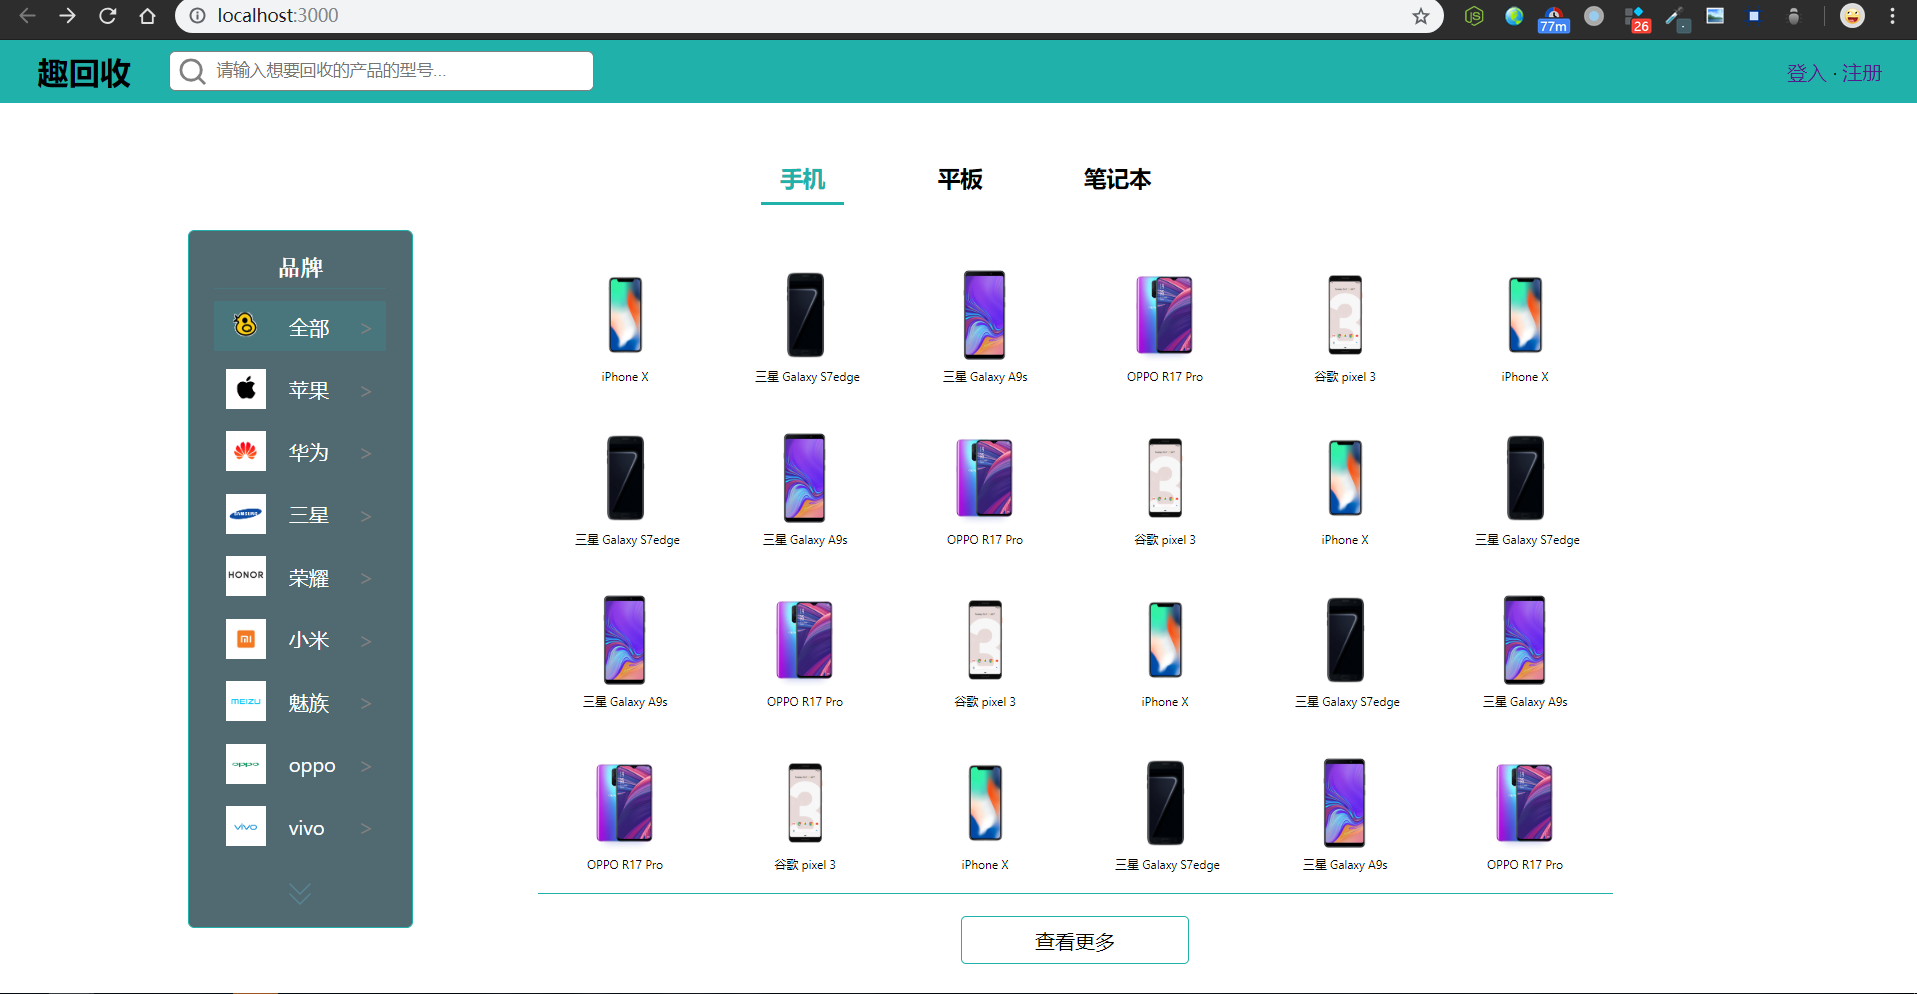
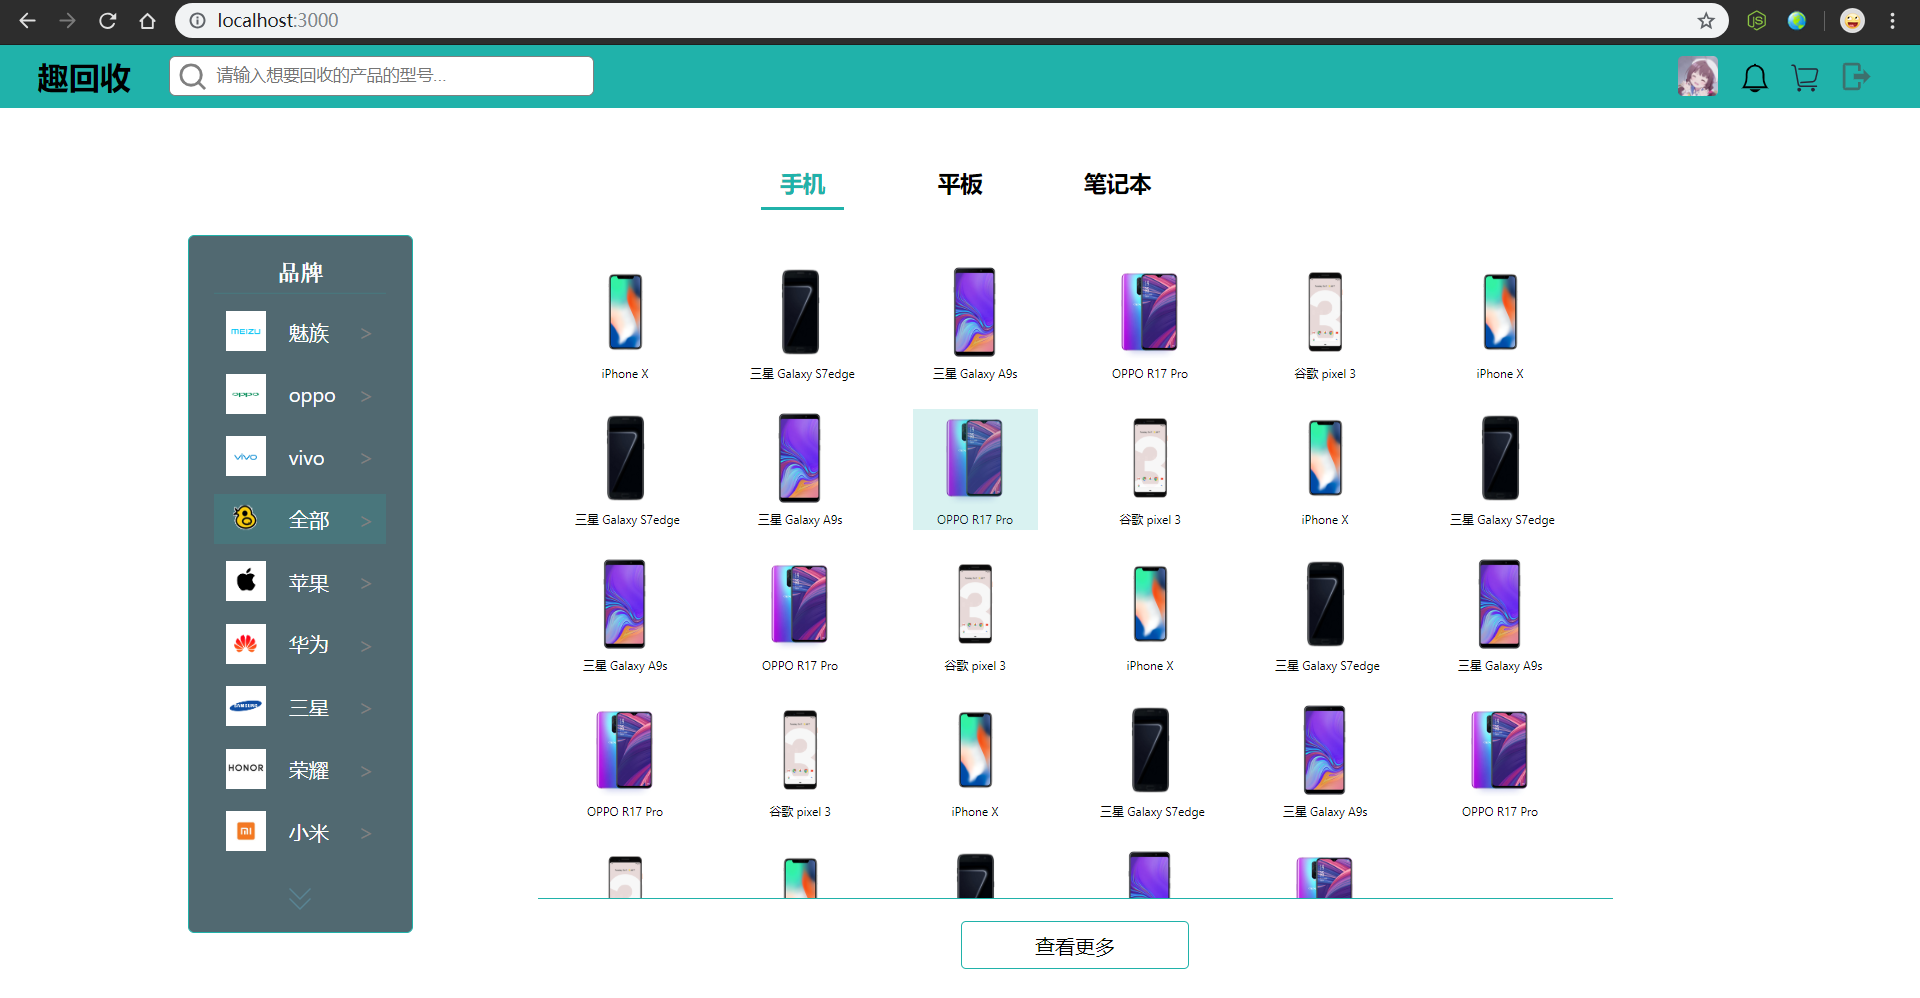
Component: Divider

diff --git a/src/assets/js/iconfont.js b/src/assets/js/iconfont.js
@@ -1,2 +1,2 @@
 /* eslint-disable */
-!function(a){var e,o='<svg><symbol id="icon-gouwuche" viewBox="0 0 1024 1024"><path d="M246.4 912a67.2 67.2 0 1 0 134.4 0 67.2 67.2 0 1 0-134.4 0z m470.4 0a67.2 67.2 0 1 0 134.4 0 67.2 67.2 0 1 0-134.4 0z m188.8-147.2h-537.6c-28.8 0-57.6-25.6-64-54.4L208 144C198.4 89.6 147.2 48 92.8 48H70.4c-12.8 0-25.6 12.8-25.6 25.6s12.8 25.6 25.6 25.6h22.4c28.8 0 57.6 25.6 64 54.4l96 566.4c9.6 54.4 60.8 96 115.2 96h537.6c12.8 0 25.6-12.8 25.6-25.6s-9.6-25.6-25.6-25.6z m-25.6-585.6H307.2c-12.8 0-25.6 12.8-25.6 25.6s12.8 25.6 25.6 25.6h572.8c25.6 0 38.4 16 32 41.6l-70.4 281.6c-6.4 32-41.6 57.6-73.6 60.8l-396.8 28.8c-12.8 0-25.6 12.8-22.4 28.8 0 12.8 12.8 25.6 28.8 22.4l396.8-28.8c54.4-3.2 105.6-48 118.4-99.2l70.4-281.6c12.8-54.4-25.6-105.6-83.2-105.6z" fill="#272636" ></path></symbol><symbol id="icon-logout" viewBox="0 0 1024 1024"><path d="M725.333333 736V597.333333h-298.666666v-170.666666h298.666666V288L949.333333 512 725.333333 736M554.666667 85.333333a85.333333 85.333333 0 0 1 85.333333 85.333334v170.666666h-85.333333V170.666667H170.666667v682.666666h384v-170.666666h85.333333v170.666666a85.333333 85.333333 0 0 1-85.333333 85.333334H170.666667a85.333333 85.333333 0 0 1-85.333334-85.333334V170.666667a85.333333 85.333333 0 0 1 85.333334-85.333334h384z" fill="" ></path></symbol><symbol id="icon-xiaoxi" viewBox="0 0 1024 1024"><path d="M377.6 947.2l-48-48h361.6l-48 48c-70.4 73.6-192 73.6-265.6 0zM832 492.8v-115.2c0-166.4-128-304-288-320v-3.2c0-19.2-12.8-32-32-32s-32 12.8-32 32v3.2c-163.2 16-288 153.6-288 320v115.2c0 131.2-44.8 262.4-128 364.8h896c-83.2-102.4-128-233.6-128-364.8z m-576 0v-115.2c0-134.4 99.2-243.2 230.4-256l28.8-3.2 22.4 3.2c131.2 12.8 230.4 121.6 230.4 256v115.2c0 105.6 25.6 208 73.6 300.8H182.4C230.4 700.8 256 598.4 256 492.8z" fill="" ></path></symbol><symbol id="icon-search" viewBox="0 0 1024 1024"><path d="M883.626667 823.04l-145.066667-144.64A337.92 337.92 0 0 0 810.666667 469.333333a341.333333 341.333333 0 1 0-341.333334 341.333334 337.92 337.92 0 0 0 209.066667-72.106667l144.64 145.066667a42.666667 42.666667 0 0 0 60.586667 0 42.666667 42.666667 0 0 0 0-60.586667zM213.333333 469.333333a256 256 0 1 1 256 256 256 256 0 0 1-256-256z"  ></path></symbol><symbol id="icon-Doublearrowdown" viewBox="0 0 1024 1024"><path d="M512 785.066667a17.015467 17.015467 0 0 1-12.066133-5.000534l-256-256a17.0496 17.0496 0 1 1 24.132266-24.132266L512 743.867733l243.933867-243.933866a17.0496 17.0496 0 1 1 24.132266 24.132266l-256 256A17.015467 17.015467 0 0 1 512 785.066667z m0-256a17.015467 17.015467 0 0 1-12.066133-5.000534l-256-256a17.0496 17.0496 0 1 1 24.132266-24.132266L512 487.867733l243.933867-243.933866a17.0496 17.0496 0 1 1 24.132266 24.132266l-256 256A17.015467 17.015467 0 0 1 512 529.066667z"  ></path></symbol></svg>',t=(e=document.getElementsByTagName("script"))[e.length-1].getAttribute("data-injectcss");if(t&&!a.__iconfont__svg__cssinject__){a.__iconfont__svg__cssinject__=!0;try{document.write("<style>.svgfont {display: inline-block;width: 1em;height: 1em;fill: currentColor;vertical-align: -0.1em;font-size:16px;}</style>")}catch(e){console&&console.log(e)}}!function(e){if(document.addEventListener)if(~["complete","loaded","interactive"].indexOf(document.readyState))setTimeout(e,0);else{var t=function(){document.removeEventListener("DOMContentLoaded",t,!1),e()};document.addEventListener("DOMContentLoaded",t,!1)}else document.attachEvent&&(o=e,n=a.document,i=!1,c=function(){i||(i=!0,o())},(l=function(){try{n.documentElement.doScroll("left")}catch(e){return void setTimeout(l,50)}c()})(),n.onreadystatechange=function(){"complete"==n.readyState&&(n.onreadystatechange=null,c())});var o,n,i,c,l}(function(){var e,t;(e=document.createElement("div")).innerHTML=o,o=null,(t=e.getElementsByTagName("svg")[0])&&(t.setAttribute("aria-hidden","true"),t.style.position="absolute",t.style.width=0,t.style.height=0,t.style.overflow="hidden",function(e,t){t.firstChild?function(e,t){t.parentNode.insertBefore(e,t)}(e,t.firstChild):t.appendChild(e)}(t,document.body))})}(window);
+!function(a){var t,o='<svg><symbol id="icon-edit" viewBox="0 0 1024 1024"><path d="M912.310222 874.534873l-801.248753 0c-8.477069 0-15.349593-6.872524-15.349593-15.349593s6.872524-15.349593 15.349593-15.349593l801.248753 0c8.477069 0 15.349593 6.872524 15.349593 15.349593S920.78729 874.534873 912.310222 874.534873z"  ></path><path d="M152.361083 860.972996c-4.093225 0-8.098445-1.639337-11.042497-4.685719-4.168949-4.315282-5.440919-10.663874-3.257184-16.253172l73.833589-188.899254c0.777713-1.988284 1.961678-3.793396 3.476171-5.299703l495.742734-492.675886c6.002714-5.967922 15.706727-5.947456 21.686928 0.047072l114.705462 114.988918c5.951549 5.966898 5.981225 15.614629 0.064468 21.61632L355.786169 788.710182c-1.639337 1.662873-3.63683 2.929726-5.840008 3.704368L157.449985 860.102163C155.786089 860.687494 154.064888 860.972996 152.361083 860.972996zM239.309364 665.327084l-60.471256 154.712641 157.576875-55.407937L815.023478 279.099602l-93.136214-93.365434L239.309364 665.327084z"  ></path><path d="M344.855212 793.284361c-3.983731 0-7.962346-1.540076-10.969842-4.612041L215.223806 667.460678c-5.930059-6.057973-5.826705-15.776312 0.231267-21.706371 6.056949-5.932106 15.775288-5.827729 21.706371 0.231267l118.661563 121.211643c5.930059 6.057973 5.826705 15.776312-0.231267 21.706371C352.605733 791.827173 348.728426 793.284361 344.855212 793.284361z"  ></path></symbol><symbol id="icon-gouwuche" viewBox="0 0 1024 1024"><path d="M246.4 912a67.2 67.2 0 1 0 134.4 0 67.2 67.2 0 1 0-134.4 0z m470.4 0a67.2 67.2 0 1 0 134.4 0 67.2 67.2 0 1 0-134.4 0z m188.8-147.2h-537.6c-28.8 0-57.6-25.6-64-54.4L208 144C198.4 89.6 147.2 48 92.8 48H70.4c-12.8 0-25.6 12.8-25.6 25.6s12.8 25.6 25.6 25.6h22.4c28.8 0 57.6 25.6 64 54.4l96 566.4c9.6 54.4 60.8 96 115.2 96h537.6c12.8 0 25.6-12.8 25.6-25.6s-9.6-25.6-25.6-25.6z m-25.6-585.6H307.2c-12.8 0-25.6 12.8-25.6 25.6s12.8 25.6 25.6 25.6h572.8c25.6 0 38.4 16 32 41.6l-70.4 281.6c-6.4 32-41.6 57.6-73.6 60.8l-396.8 28.8c-12.8 0-25.6 12.8-22.4 28.8 0 12.8 12.8 25.6 28.8 22.4l396.8-28.8c54.4-3.2 105.6-48 118.4-99.2l70.4-281.6c12.8-54.4-25.6-105.6-83.2-105.6z" fill="#272636" ></path></symbol><symbol id="icon-logout" viewBox="0 0 1024 1024"><path d="M725.333333 736V597.333333h-298.666666v-170.666666h298.666666V288L949.333333 512 725.333333 736M554.666667 85.333333a85.333333 85.333333 0 0 1 85.333333 85.333334v170.666666h-85.333333V170.666667H170.666667v682.666666h384v-170.666666h85.333333v170.666666a85.333333 85.333333 0 0 1-85.333333 85.333334H170.666667a85.333333 85.333333 0 0 1-85.333334-85.333334V170.666667a85.333333 85.333333 0 0 1 85.333334-85.333334h384z" fill="" ></path></symbol><symbol id="icon-xiaoxi" viewBox="0 0 1024 1024"><path d="M377.6 947.2l-48-48h361.6l-48 48c-70.4 73.6-192 73.6-265.6 0zM832 492.8v-115.2c0-166.4-128-304-288-320v-3.2c0-19.2-12.8-32-32-32s-32 12.8-32 32v3.2c-163.2 16-288 153.6-288 320v115.2c0 131.2-44.8 262.4-128 364.8h896c-83.2-102.4-128-233.6-128-364.8z m-576 0v-115.2c0-134.4 99.2-243.2 230.4-256l28.8-3.2 22.4 3.2c131.2 12.8 230.4 121.6 230.4 256v115.2c0 105.6 25.6 208 73.6 300.8H182.4C230.4 700.8 256 598.4 256 492.8z" fill="" ></path></symbol><symbol id="icon-search" viewBox="0 0 1024 1024"><path d="M883.626667 823.04l-145.066667-144.64A337.92 337.92 0 0 0 810.666667 469.333333a341.333333 341.333333 0 1 0-341.333334 341.333334 337.92 337.92 0 0 0 209.066667-72.106667l144.64 145.066667a42.666667 42.666667 0 0 0 60.586667 0 42.666667 42.666667 0 0 0 0-60.586667zM213.333333 469.333333a256 256 0 1 1 256 256 256 256 0 0 1-256-256z"  ></path></symbol><symbol id="icon-Doublearrowdown" viewBox="0 0 1024 1024"><path d="M512 785.066667a17.015467 17.015467 0 0 1-12.066133-5.000534l-256-256a17.0496 17.0496 0 1 1 24.132266-24.132266L512 743.867733l243.933867-243.933866a17.0496 17.0496 0 1 1 24.132266 24.132266l-256 256A17.015467 17.015467 0 0 1 512 785.066667z m0-256a17.015467 17.015467 0 0 1-12.066133-5.000534l-256-256a17.0496 17.0496 0 1 1 24.132266-24.132266L512 487.867733l243.933867-243.933866a17.0496 17.0496 0 1 1 24.132266 24.132266l-256 256A17.015467 17.015467 0 0 1 512 529.066667z"  ></path></symbol></svg>',e=(t=document.getElementsByTagName("script"))[t.length-1].getAttribute("data-injectcss");if(e&&!a.__iconfont__svg__cssinject__){a.__iconfont__svg__cssinject__=!0;try{document.write("<style>.svgfont {display: inline-block;width: 1em;height: 1em;fill: currentColor;vertical-align: -0.1em;font-size:16px;}</style>")}catch(t){console&&console.log(t)}}!function(t){if(document.addEventListener)if(~["complete","loaded","interactive"].indexOf(document.readyState))setTimeout(t,0);else{var e=function(){document.removeEventListener("DOMContentLoaded",e,!1),t()};document.addEventListener("DOMContentLoaded",e,!1)}else document.attachEvent&&(o=t,n=a.document,c=!1,l=function(){c||(c=!0,o())},(i=function(){try{n.documentElement.doScroll("left")}catch(t){return void setTimeout(i,50)}l()})(),n.onreadystatechange=function(){"complete"==n.readyState&&(n.onreadystatechange=null,l())});var o,n,c,l,i}(function(){var t,e;(t=document.createElement("div")).innerHTML=o,o=null,(e=t.getElementsByTagName("svg")[0])&&(e.setAttribute("aria-hidden","true"),e.style.position="absolute",e.style.width=0,e.style.height=0,e.style.overflow="hidden",function(t,e){e.firstChild?function(t,e){e.parentNode.insertBefore(t,e)}(t,e.firstChild):e.appendChild(t)}(e,document.body))})}(window);

diff --git a/src/components/divider/Divider.jsx b/src/components/divider/Divider.jsx
@@ -1,0 +1,25 @@
+import * as React from 'react';
+import PropTypes from 'prop-types';
+import './Divider.scss';
+
+export const Divider = (props) => {
+    const { className: extraClassName, style, type, dashed, orientation } = props;
+    const className = `divider ${extraClassName} divider-type-${type} ${dashed ? 'divider-dashed' : ''} divider-orientation-${orientation}`;
+     
+    return (
+        <div className={className} style={style}></div>
+    );
+}
+
+Divider.props = {
+    type: PropTypes.oneOf(['horizontal', 'vertical']),
+    dashed: PropTypes.bool,
+    orientation: PropTypes.oneOf(['left', 'middle', 'right']),
+}
+
+Divider.defaultProps = {
+    type: 'horizontal',
+    dashed: false,
+    orientation: 'middle',
+
+}

diff --git a/src/components/divider/Divider.scss b/src/components/divider/Divider.scss
@@ -1,0 +1,3 @@
+.divider {
+    
+}
